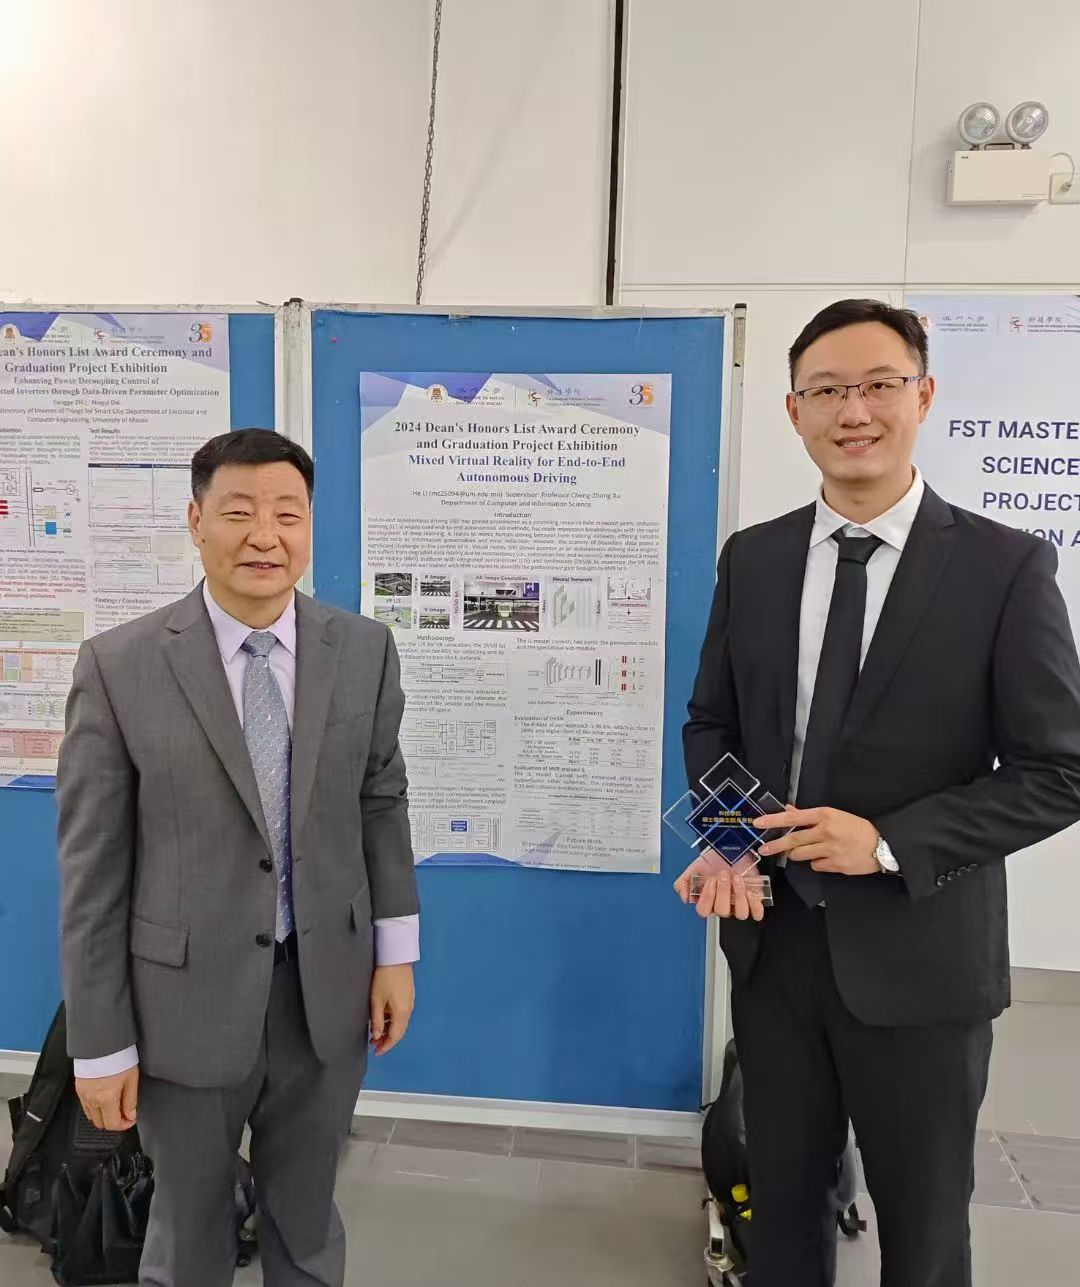
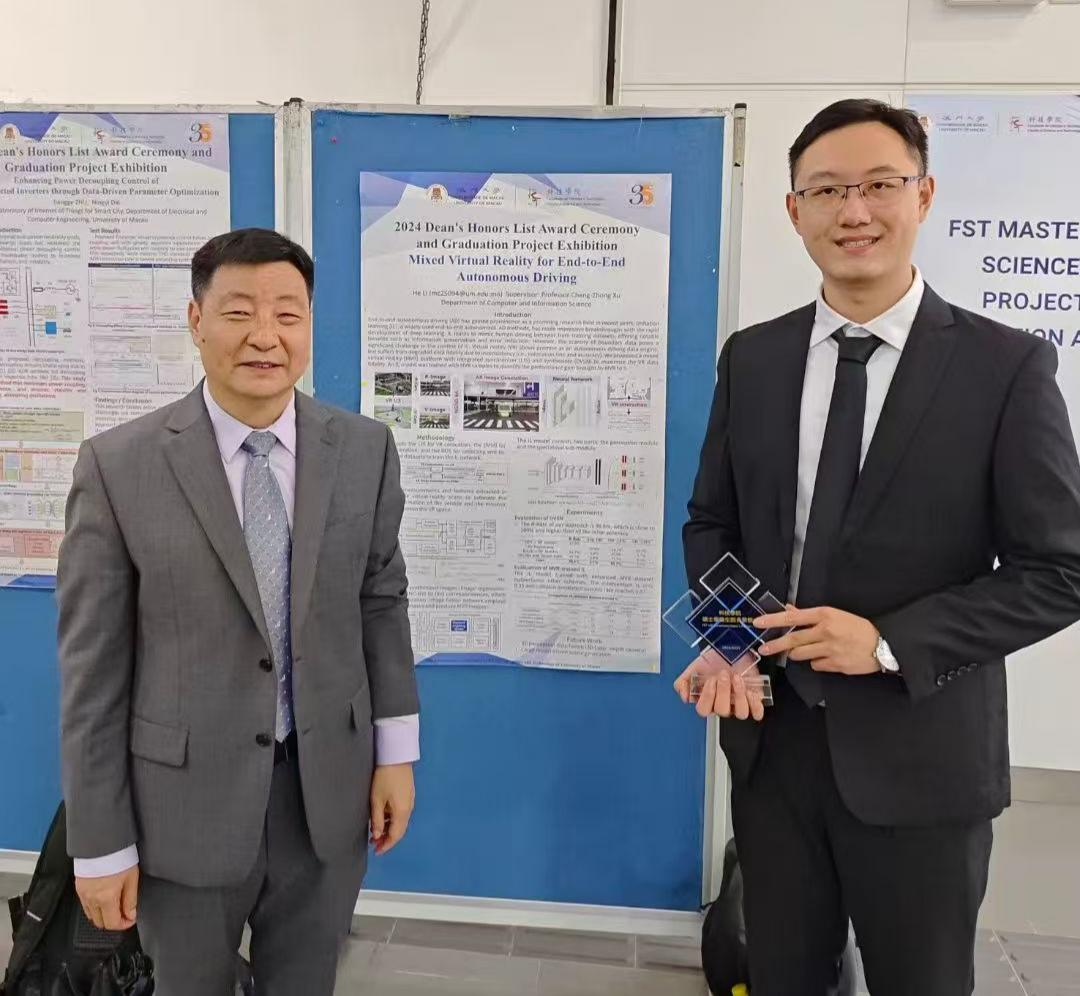
update

diff --git a/_sass/_base.scss b/_sass/_base.scss
@@ -313,7 +313,7 @@ figcaption {
   img {
     display: block;
     width: 100%;
-    height: 190px;
+    height: 257px;
     margin: 0;
     object-fit: cover;
   }
@@ -415,7 +415,7 @@ figcaption {
   }
 
   .activity-card img {
-    height: 135px;
+    height: 182px;
   }
 
   .activity-card figcaption {
